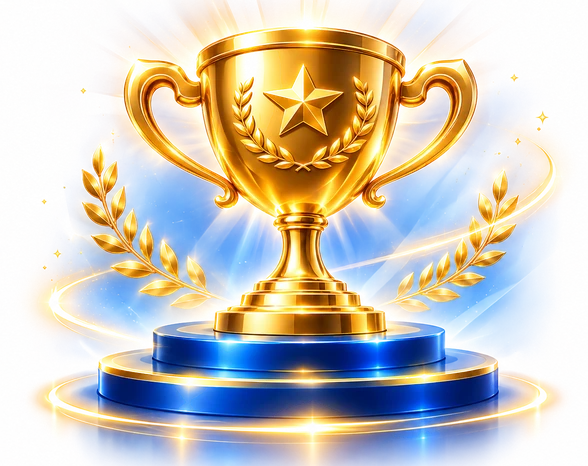
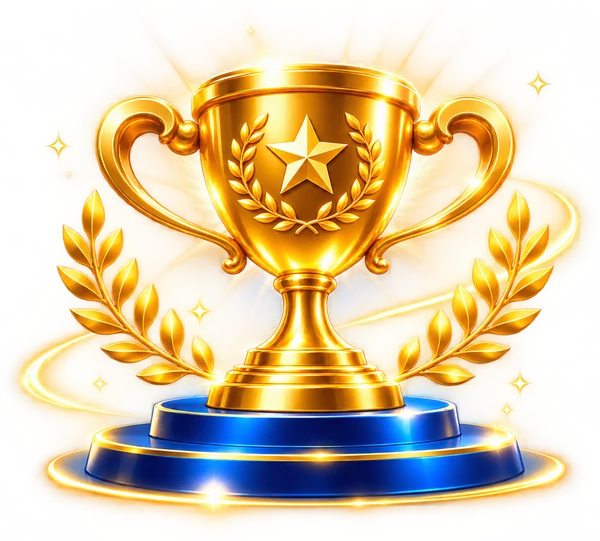
Trang xac thuc: thay anh cup bang ban co nen trong suot san (khong con tach nen), vien sach

diff --git a/kiemtra/ketqua.html b/kiemtra/ketqua.html
@@ -460,8 +460,8 @@ body.cert-on .wrap{max-width:1180px;width:min(1180px,94vw)}
   .acts .btn-outline{min-height:50px;font-size:15px}
 }
 
-/* Ảnh cúp (trophy-photo.webp, đã tách nền trắng bằng dev/cutout-white.py) */
-.cert.art-cup .ct-art{width:min(33%,400px);right:1.5%;filter:drop-shadow(0 18px 26px rgba(0,20,80,.35));-webkit-mask-image:linear-gradient(180deg,#000 85%,transparent 100%);mask-image:linear-gradient(180deg,#000 85%,transparent 100%)}
+/* Ảnh cúp (trophy-photo.webp, ảnh gốc có nền trong suốt) */
+.cert.art-cup .ct-art{width:min(33%,400px);right:1.5%;filter:drop-shadow(0 18px 26px rgba(0,20,80,.35));}
 .ct-kick{letter-spacing:.02em;font-size:14px;font-weight:600;text-transform:none}
 @media(max-width:860px){.cert.art-cup .ct-art{width:200px!important}}
 @media(max-width:700px){.ct-result{grid-template-columns:minmax(104px,32%) 1fr;gap:12px}.ct-ring{width:100%}.ct-person{padding-left:12px}}
@@ -495,7 +495,7 @@ body.cert-on .wrap{max-width:1180px;width:min(1180px,94vw)}
       <div class="vbar" id="vbar"><svg width="26" height="26" viewBox="0 0 24 24" aria-hidden="true"><path d="M12 2 4 5.2v6c0 4.7 3.2 8.4 8 9.8 4.8-1.4 8-5.1 8-9.8v-6z" fill="currentColor"/><path d="m8.2 12.3 2.6 2.6 5-5.6" fill="none" stroke="#fff" stroke-width="2.2" stroke-linecap="round" stroke-linejoin="round"/></svg><span>Kết quả này đã được hệ thống xác thực</span></div>
       <div class="cert" id="cert">
         <section class="ct-top">
-          <img class="ct-art" id="vArt" src="/kiemtra/trophy-photo.webp" alt="" width="588" height="475" aria-hidden="true">
+          <img class="ct-art" id="vArt" src="/kiemtra/trophy-photo.webp" alt="" width="600" height="541" aria-hidden="true">
           <div class="ct-kick">Kết quả bài kiểm tra</div>
           <h1 class="ct-title" id="vTitle"></h1>
           <div id="vBadge"></div>
